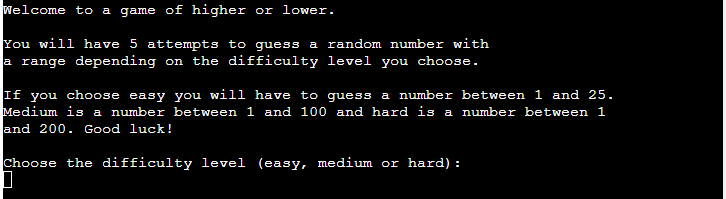
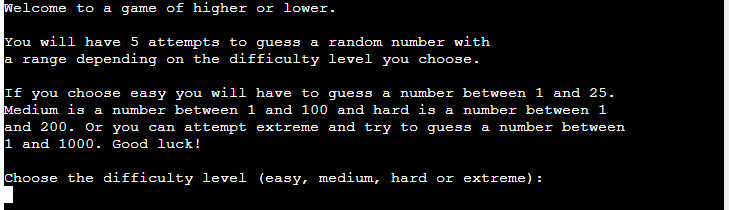
amendments to README file and formatting in the code

diff --git a/run.py b/run.py
@@ -31,8 +31,8 @@ def check_difficulty():
             return difficulty
         else:
             print(
-                "Sorry, please select one of the difficulty options: "
-                "easy, medium, hard or extreme. \n"
+                """Sorry, please select one of the difficulty options:
+easy, medium, hard or extreme.\n"""
             )
 
 

diff --git a/README.md b/README.md
@@ -1,7 +1,7 @@
 # Higher or Lower
 Higher or lower is a Python terminal game, which runs in the Code Institute mock terminal on Heroku.
 
-The user has five attempts to correctly guess the number the game has randomly selected. The game is for fun, for people of all ages and can be as challenging as the user would like it to be. 
+The user has five attempts to correctly guess the number the game has randomly selected. The game is for fun, for people of all ages and can be as challenging as the user would like it to be. If the user is looking for a straightforward relaxing game they can choose the "easy" difficulty or if they want something very challenging they can select the "extreme" difficulty. The different levels should allow the game to appeal to a wider audience. 
 
 [Live version of the game](https://higher-or-lower131-f3d3fa4260b3.herokuapp.com/)
 
